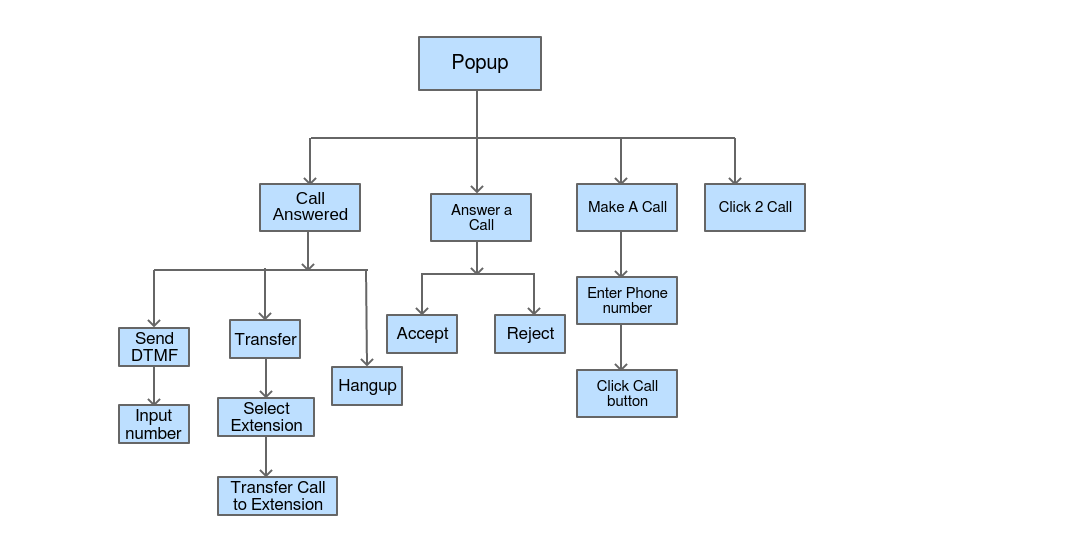
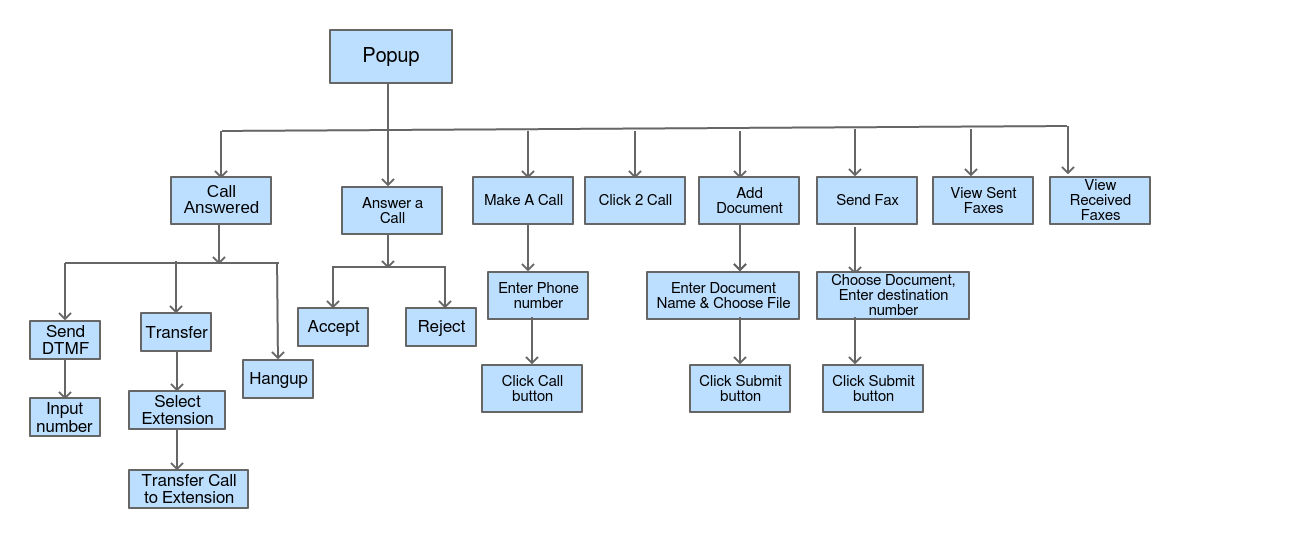
Updated activity diagram , updated the README file

Changed region(s): [[0.0, 0.2082, 0.8977, 0.9517], [0.2477, 0.0297, 0.5263, 0.1784]]

diff --git a/README.md b/README.md
@@ -1,8 +1,10 @@
 ## ICT Agent(Browser Extension)
 
-This extension will embed WebRTC based VoIP Phone in browser which will remain connected to the main server, and will be responsible for inbound and outbound calls, transfer calls as well as sending DTMF as well sending Fax. It can harvest contacts from the random pages. Agent can access contents, contacts from a single application. Browser can automatically fetch required URL depending on the course of call. Automatic URL will eliminate any delay which agent take while searching and finding desired data.
+This extension will embed WebRTC based VoIP Phone in browser which will remain connected to the main server, and will be responsible for inbound and outbound calls, transfer calls, sending DTMF as well sending Fax. It can harvest contacts from the random pages. Agent can access contents, contacts from a single application. Browser can automatically fetch required URL depending on the course of call. Automatic URL will eliminate any delay which agent take while searching and finding desired data.
 
-It has Click 2 Call feature, User can click on the number to make call. It allows to send fax, view received fax, add the document. You can also view the sent faxes through this.
+It has Click 2 Call feature, User can click on the number to make call. 
+
+It allows to send fax, view received fax, add the document. You can also view the sent faxes through this.
 
 
 ### Features of ICT Agent(Browser Extension)
@@ -26,6 +28,205 @@ It has Click 2 Call feature, User can click on the number to make call. It allow
 - View Sent Fax
 - View Received Fax
 - Download Fax Document
+
+
+Installation
+---------------------
+- Open the [Chrome Web Store](https://chrome.google.com/webstore).
+- Search for the **ICT Agent** Extension in the google web store.
+- Click **Add to Chrome**.
+- A box will open that lists the data that the extension will be able to access.
+- Click **Add Extension** to grant the extension access to your data and install the extension.
+- Extension will be installed.
+
+- To use the extension click the icon to the right of address bar in chrome.
+
+Extension Settings
+------------------
+Once the extension is successfully installed, update the extension settings for this:
+- Right click on the extension icon.
+- A menu will appear like **Search Phone numbers**, **Options**.
+- Click **Options**.
+- It will redirect you to the Settings page.
+
+### Authentication
+
+  Enter the Url of communication server i.e Api Url, Username and Password, Test Credentials button. Click the Test Credential button to test your credentials. If all of these fields are valid then a success message will appear and the extensions will be automatically updated.
+  If an error message displays then again fill the required fields with correct credentials.
+  
+### Select Extension  
+  To get the updated list of extensions click the Refresh button it will load the extensions.
+  Select the Extension.
+  Now all inbound and outbound calls will be handled through this Extension.
+  
+### Enter URL to load information of incoming and outgoing caller
+  
+  Enter Url to load caller information i.e the URL of the Customer Relationship management(CRM), so that when the call is connected it will load the particular contact details.
+  
+### Pattern to search phone number in web pages
+
+  Enter Phone Regular Expression to match the Phone pattern on the webpage. So that when you search the phone number it will scan the whole web page and will find the numbers that match the phone pattern given as input and will convert all that numbers into the link.
+  
+### Search Phone on new web page
+
+  If you want to search/scan phone number automatically on the web page, then select the Checkbox.
+  
+### Automatically open the Phone widget when user click on phone number
+  
+  If you want to auto load the popup window, upon clicking the phone number then enable the checkbox.
+
+Scan Phone number
+-----------------
+You can scan/search Phone numbers by Enabling the **Search Phone on the new web page checkbox** in the **Options** page.
+
+If you want to manually search the phone number on the desired page then you can simply achieve by following these steps:
+
+* Right click the Extension icon.
+* Click **Search Phone Number in current Tab**
+* It will highlight all the numbres on the page and will make all the numbers clickable.
+
+Open the Web Phone / Popup
+--------------------------
+- To open the web phone click on the extension icon, it will open the Web Phone Window.
+- Enable the checkbox **Automatically open the Phone widget** in options/settings page it will automatically open the Popup window when the number is clicked.
+
+<div style="page-break-after: always;"></div>
+
+Menu
+------
+There are two menus
+
+* **Call**
+
+  Through call menu the user can manage the inbound and outbound calls, send DTMF and transfer the calls.
+  
+  User has both option either click to call or agent has also numeric keypad to dial any contact manually , the said contact will be saved  for future use, during call progress, the agent will have option to accept , reject, send DTMF  or  transfer the call to any available agent
+  
+  <div style="text-align: center"><img src="doc/activity1.png"/></div>
+  
+* **Fax**
+  
+  Through Fax menu the user can manage the inbound and outbound Fax, send fax to a particular number, add the documents as well.
+  
+    <div style="text-align: center"><img src="doc/fax_menu.png"/></div>
+
+Make a Call
+-----------
+- To Call the specific number open the **Popup / Phone** Window.
+- Enter the number in the input field.
+- Click the **Call** button.
+
+<br><br>
+
+<div style="text-align: center"><img src="doc/activity1.png"/></div>
+
+<div style="page-break-after: always;"></div>
+
+Outgoing Call
+------------
+
+On outgoing call following screen will display
+
+<br><br>
+
+<div style="text-align: center"><img src="doc/activity2.png"/></div>
+
+<div style="page-break-after: always"></div>
+
+Click 2 Call
+------------
+To enable Click 2 Call, enable **automatically open the Phone widget** checkbox. Search Phone number and by clicking any number in the web page Phone window will automatically open and will forward the call to the number clicked. OR If the checkbox is not enabled, you can still use this feature by manually opening the Phone window through extension icon in chrome and by clicking the number it will forward call to the number clicked.
+
+Answer an inbound Call
+----------------------
+To answer an inbound Call the **Phone / Popup** must be open. On incoming call it will show the Caller name and accept and reject button. To answer the Call Click the **Accept** button and if you want to reject the Call then click the **Reject** button.
+
+You can also open the caller details by clicking the number on the incoming call screen.
+
+<br><br>
+
+<div style="text-align: center"><img src="doc/activity3.png"/></div>
+
+<div style="page-break-after: always;"></div>
+
+
+Send DTMF or Transfer
+--------------------
+When the call is connected, it has the options to both send DTMF or Transfer Call.
+
+<br><br><br>
+
+<div style="text-align: center"><img src="doc/activity4.png"/></div>
+
+<div style="page-break-after: always;"></div>
+
+
+### Send DTMF
+
+During surveys and polls when the caller asks you to press the specific key you can use send DTMF buttons to send your response.
+When the Call is connected, click the send DTMF button, it will open the keypad, click the button in keypad you want to send as DTMF.
+
+<br><br><br>
+
+<div style="text-align: center"><img src="doc/activity4.2.png"/></div>
+
+<div style="page-break-after: always;"></div>
+
+
+### Transfer Call
+
+When the call is connected simply click the Transfer to button, a dropdown or a list of agent will appear, select the agent and click the start transfer call and the call will be connected to the agent/extension selected.
+
+<br><br>
+
+
+<div style="text-align: center"><img src="doc/activity4.1.png"/></div>
+
+<br><br>
+
+Load the Contact Information
+--------------------------
+To load the Contact information enter the CRM url in the **Options** page which will load the partciular contact when the call is either connecting or connected. Click the number and it will load the particular contact details.
+
+During Outgoing, incoming and in call click the number label and it will load the particular contact details.
+
+Send Fax
+--------
+
+To send the fax to a particular contact switch to the Fax menu and click on the **Send new fax**. You will see the following interface
+
+<div style="text-align: center"><img src="doc/send_fax.png"/></div>
+
+Here enter title, choose document to sent, select the destination number on which you want to send the fax and press submit button.
+
+It will redirect you to the Outbound fax list and the user can see the status of the fax there.
+
+Add Document
+------------
+
+To add the new document to the ictfax, firstly open the Fax menu and click on the **Add new document**. You will see the following interface
+
+<div style="text-align: center"><img src="doc/add_document.png"/></div>
+
+Here enter the details and click the submit button. New Document will be added successfully
+
+Outbound Fax
+-----------
+
+To see the outbound fax list , open the fax menu and click on the **View Sent Fax**. It will show you the list of all sent faxes
+
+
+Inbound Fax
+-----------
+
+To see the list of received fax, open the fax menu and click on the **View Received Fax**. It will show you the list of all received faxes
+
+Here you can also download the fax document sent by the user.
+
+NOTE
+-----
+
+Currently ICTAgent supports fax and voice and we have plans to add SMS and WhatsApp functionality soon.
 
 ### Credits
 
